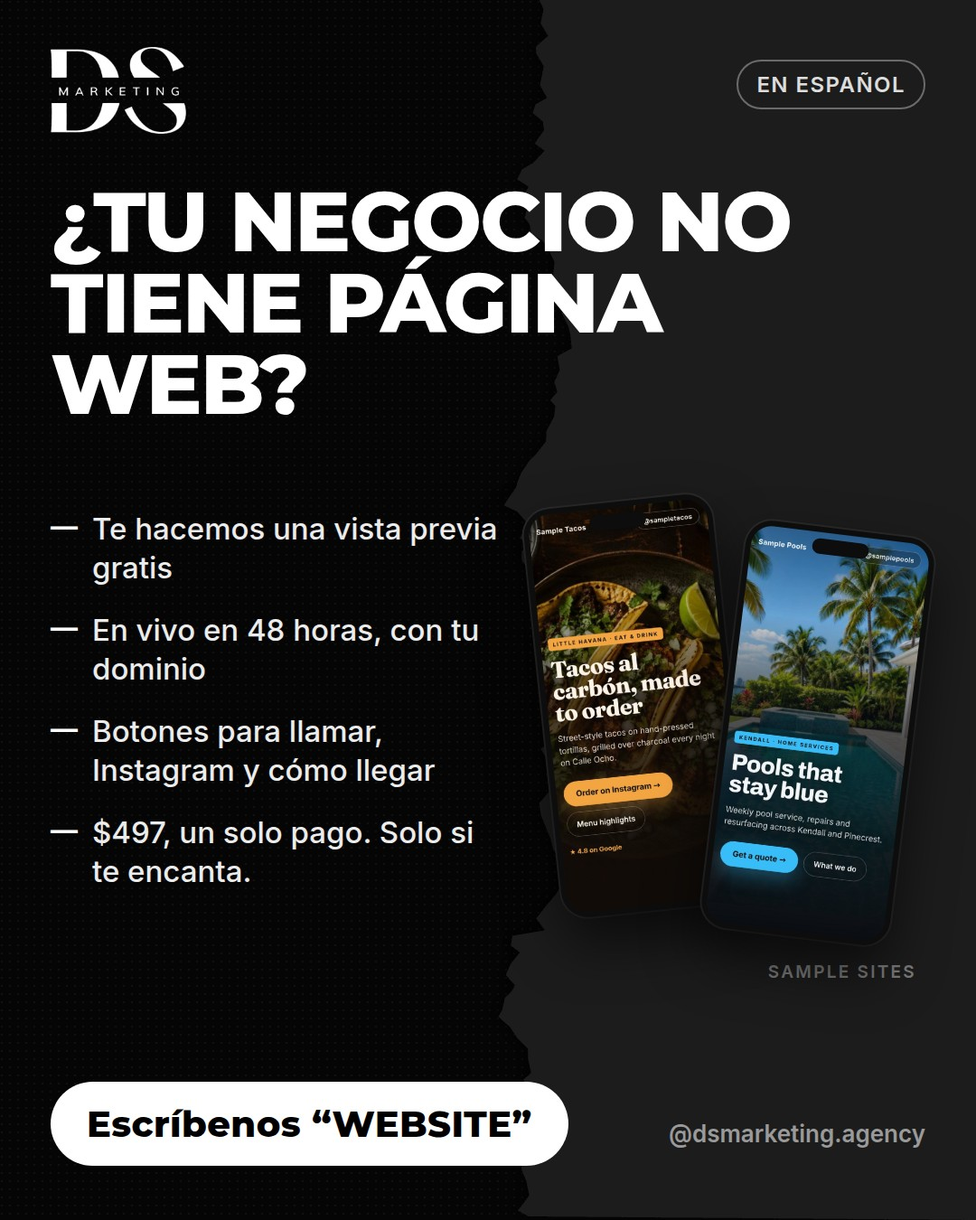
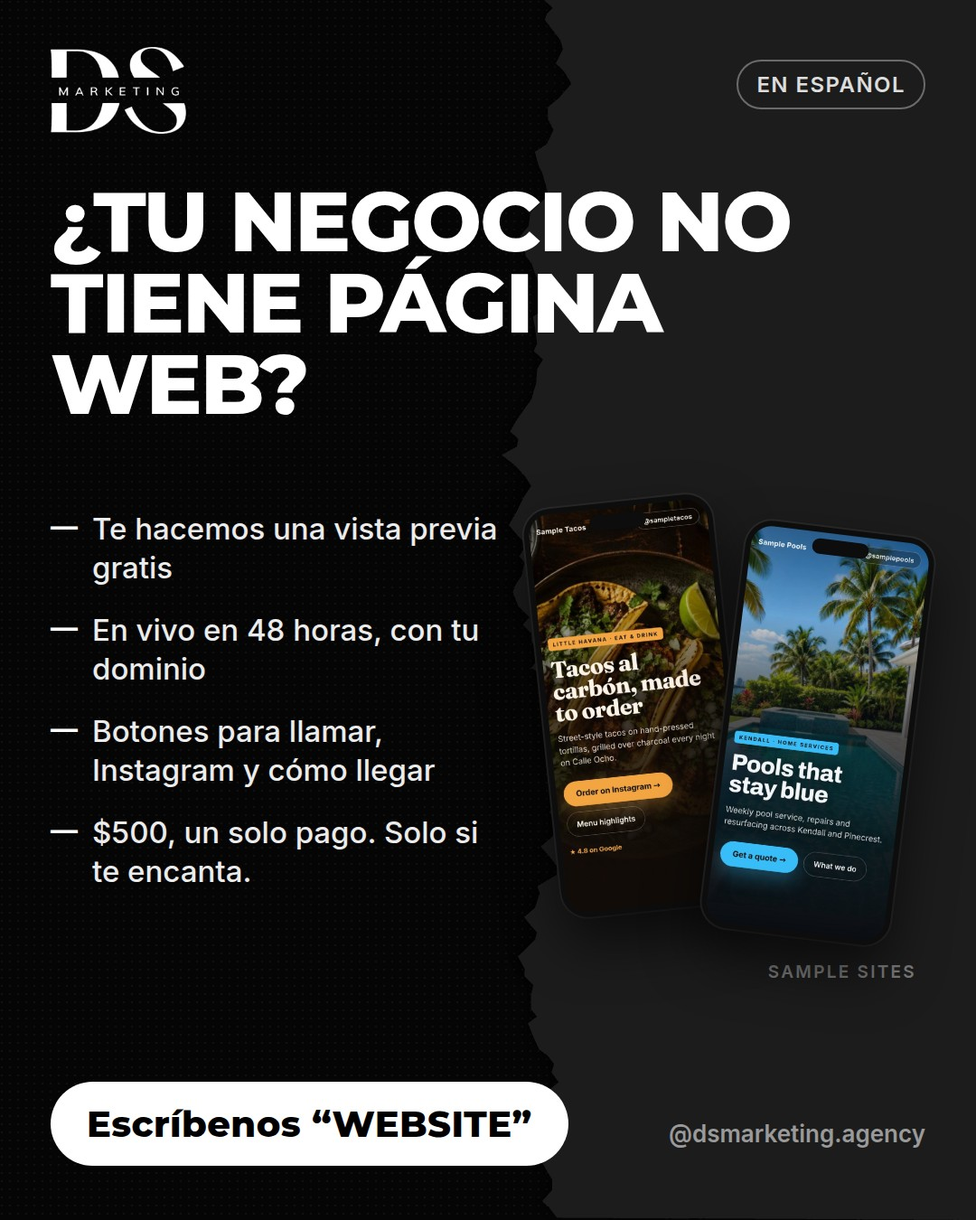
DS prices: Quick Start $500 · Growth $1,000 · Premium $1,500 (Joxel's Stripe products), 48 h kept; queued post images re-rendered
Claude-Session: https://claude.ai/code/session_01C8yjDDS8N94vrod5D4z4qZ

diff --git a/.claude/workflows/ds-daily-leads.js b/.claude/workflows/ds-daily-leads.js
@@ -104,8 +104,8 @@ const WR = { type: 'object', properties: { out: { type: 'array', items: { type: 
   required: ['handle', 'lang', 'exactName', 'heroTitle', 'heroSub', 'services', 'dmHook', 'dm', 'emailSubject', 'emailBody'] } } }, required: ['out'] }
 const toWrite = [...dm, ...mail]
 const wb = []; for (let i = 0; i < toWrite.length; i += 10) wb.push(toWrite.slice(i, i + 10))
-const written = await parallel(wb.map((b, i) => () => agent(`Write website-preview copy and outreach for each business, for DS Marketing (Miami): a $497 website live in 48 hours on their own domain; a free preview is built first; they pay only if they love it. Use ONLY facts in the name and bio below — no invented dishes, prices, years, awards, reviews. Spanish when the bio is mostly Spanish, else English. Copy speaks AS the business (we / our / you).
-Per business: exactName (as they write it), heroTitle (3–7 words, their voice), heroSub (one sentence, real facts only), services (3–5 from the bio / trade, true but may be generic), dmHook (one real detail from their bio to open with), dm (≤ 65 words: hook, "I made you a free website preview", the link, "live on your own domain in 48 h for $497 — want it?"), emailSubject (≤ 7 words), emailBody (≤ 110 words, same idea + link, signed "Joxel · DS Marketing", last line "Reply STOP and we won't email you again." — the sender adds the mailing address).
+const written = await parallel(wb.map((b, i) => () => agent(`Write website-preview copy and outreach for each business, for DS Marketing (Miami): a $500 website live in 48 hours on their own domain; a free preview is built first; they pay only if they love it. Use ONLY facts in the name and bio below — no invented dishes, prices, years, awards, reviews. Spanish when the bio is mostly Spanish, else English. Copy speaks AS the business (we / our / you).
+Per business: exactName (as they write it), heroTitle (3–7 words, their voice), heroSub (one sentence, real facts only), services (3–5 from the bio / trade, true but may be generic), dmHook (one real detail from their bio to open with), dm (≤ 65 words: hook, "I made you a free website preview", the link, "live on your own domain in 48 h for $500 — want it?"), emailSubject (≤ 7 words), emailBody (≤ 110 words, same idea + link, signed "Joxel · DS Marketing", last line "Reply STOP and we won't email you again." — the sender adds the mailing address).
 Preview link = https://joxelds.github.io/Claude/p/<slug>/ with <slug> given below.
 ${b.map(q => `- @${q.handle} (slug ${slugOf(q.handle)}) · ${q.ig.name || ''} · ${q.niche} · ${q.area || ''} · ${q.ig.followers} followers · bio: ${(q.ig.bio || '').replace(/\s+/g, ' ').slice(0, 300)} · tagged by @${q.seed}: "${q.context}"`).join('\n')}`, { label: `write:${i + 1}`, phase: 'Write', schema: WR })))
 const wmap = new Map(written.filter(Boolean).flatMap(w => w.out || []).map(w => [String(w.handle).replace(/^@/, '').toLowerCase(), w]))

diff --git a/.claude/workflows/ds-inspiration.js b/.claude/workflows/ds-inspiration.js
@@ -35,7 +35,7 @@ const tries = await parallel(proposals.map(p => () => agent(`${RULES}\n\nBuild e
 
 phase('Judge')
 const VERD = { type: 'object', properties: { verdicts: { type: 'array', items: { type: 'object', properties: { id: { type: 'string' }, better: { type: 'boolean' }, score: { type: 'number' }, why: { type: 'string' } }, required: ['id', 'better', 'score', 'why'] } } }, required: ['verdicts'] }
-const JUDGES = [['designer', 'a world-class visual designer'], ['owner', 'the three business owners (food truck, barbershop, boxing gym) deciding whether to pay $497'], ['engineer', 'a strict front-end / accessibility / honesty auditor who reads the generated HTML']]
+const JUDGES = [['designer', 'a world-class visual designer'], ['owner', 'the three business owners (food truck, barbershop, boxing gym) deciding whether to pay $500'], ['engineer', 'a strict front-end / accessibility / honesty auditor who reads the generated HTML']]
 const votes = await parallel(JUDGES.map(([k, who]) => () => agent(`${RULES}\n\nYou are judge "${k}" (${who}). Compare the BASE pages (${V2}/insp/base-<slug>-m.png, -d1.png; HTML in public/p/_lab/base/) with each experiment (${proposals.map(p => p.id).join(', ')}: ${V2}/insp/<id>-<slug>-m.png / -d1.png; HTML public/p/_lab/<id>/). Make sheets with sheet.py and LOOK. For each experiment: is it clearly better than base (not just different)? Score −5 (worse) … +5 (much better). Any honesty or rule break = better:false.`, { label: `judge:${k}`, phase: 'Judge', schema: VERD })))
 const winners = proposals.filter(p => { const vs = votes.filter(Boolean).map(v => v.verdicts.find(x => x.id === p.id)).filter(Boolean); return vs.filter(v => v.better).length >= 2 && vs.reduce((s, v) => s + v.score, 0) > 3 })
 log(`winners: ${winners.map(w => w.id + ' ' + w.title).join(' · ') || 'none this week'}`)

diff --git a/docs/sales/ds-websites.md b/docs/sales/ds-websites.md
@@ -1,19 +1,19 @@
 # DS Marketing — websites for Miami small businesses
 
-Goal: sell websites through @dsmarketing.agency. First target: $1,000 = two Starters ($497) or one Pro ($997).
+Goal: sell websites through @dsmarketing.agency. First target: $1,000 = two Quick Starts ($500) or one Growth Site ($1,000).
 
 ## The offer
 
-| | Starter | Pro | Care plan |
-|---|---|---|---|
-| Price | **$497** one time | **$997** one time | **$49/mo** |
-| Live in | 48 hours after we get their info | 5 days | ongoing |
-| What | One-page mobile-first site · their own domain connected · Call / Instagram / Directions buttons · Google-ready basics (titles, map, fast load) · 1 round of changes | Up to 5 pages · online booking or ordering (their Square / Vagaro / Booksy / Toast / DoorDash link) · menu or services with prices · gallery from their photos · Google Business Profile setup · 2 rounds of changes | Hosting, updates, small text / photo / price edits each month |
-| Payment | 100% up front | 50% to start, 50% at launch | monthly |
+| | Quick Start Website | Growth Site | Premium Site | Care plan |
+|---|---|---|---|---|
+| Price | **$500** one time | **$1,000** one time | **$1,500** one time | **$49/mo** |
+| Live in | 48 hours after we get their info | 5 days | agreed per project | ongoing |
+| What | One-page mobile-first site · their own domain connected · Call / Instagram / Directions buttons · Google-ready basics (titles, map, fast load) · 1 round of changes | Everything in Quick Start + booking, ordering or lead capture wired in (their Square / Vagaro / Booksy / Toast / DoorDash link or a lead form) · up to 5 pages · menu or services with prices · gallery · Google Business Profile setup · 2 rounds of changes | Full build with automations (lead / order notifications, email flows) and ongoing updates | Hosting, updates, small text / photo / price edits each month |
+| Payment | 100% up front (Stripe link) | 100% up front (Stripe link) | 100% up front (Stripe link) | monthly |
 
 - Domain: about $12–15 a year, registered **in the client's name** (Porkbun, Namecheap or Cloudflare). We set it up on a screen share or with their login. They own it.
 - Hosting: free static hosting (Netlify or Cloudflare Pages) under DS's account; the Care plan pays for our time, not the hosting.
-- Payment link: from dsmarketing.company (Joxel's site). Never take card numbers in a DM.
+- Payment: Stripe Payment Links on Joxel's account (joxelbusinessllc) — one link per product (Quick Start $500 · Growth $1,000 · Premium $1,500); add `?client_reference_id=<slug>` so the payment matches the preview. The 2026-10-09 link https://buy.stripe.com/4gM3cv5PI9XyfFh3DC1oI00 bundles all three ($3,000) — never send it. Never take card numbers in a DM.
 
 ## How a deal happens
 
@@ -27,12 +27,12 @@ Goal: sell websites through @dsmarketing.agency. First target: $1,000 = two Star
 ## DM 1 (with the preview)
 
 > Hey {first name or business}! I'm Joxel from DS Marketing in Miami. I saw you don't have a website yet, so I made you a free preview: {PREVIEW_URL}
-> It's yours if you want it: live on your own domain in 48 hours for $497. Want me to put your real photos and menu on it?
+> It's yours if you want it: live on your own domain in 48 hours for $500. Want me to put your real photos and menu on it?
 
 Spanish:
 
 > ¡Hola {nombre}! Soy Joxel de DS Marketing en Miami. Vi que todavía no tienen página web y les hice una vista previa gratis: {PREVIEW_URL}
-> Si les gusta, la ponemos en vivo con su propio dominio en 48 horas por $497. ¿Quieren que le ponga sus fotos y su menú?
+> Si les gusta, la ponemos en vivo con su propio dominio en 48 horas por $500. ¿Quieren que le ponga sus fotos y su menú?
 
 Rules: send between 10 am and 7 pm, max 25 cold DMs a day from a fresh-ish account (IG limits), never copy-paste the same text 25 times in a row — change the first line per business.
 
@@ -46,7 +46,7 @@ Rules: send between 10 am and 7 pm, max 25 cold DMs a day from a fresh-ish accou
 
 | They say | You answer |
 |---|---|
-| "How much?" | "$497 one time, live in 48 hours on your own domain. Domain is about $15 a year and it's in your name. No monthly fee unless you want us to keep it updated ($49/mo)." |
+| "How much?" | "$500 one time, live in 48 hours on your own domain. Domain is about $15 a year and it's in your name. No monthly fee unless you want us to keep it updated ($49/mo)." |
 | "I already have Instagram" | "Instagram is great for people who already follow you. Google sends people who are searching right now, 'tacos near me', and they want a site with your hours, menu and a button to call. This is that page." |
 | "Too expensive" | "Totally fair. One or two new customers from Google usually pays for it. If timing is the issue, I can split it in two payments of $250." (Keep the price; offer the split, not a discount.) |
 | "Send me more info" | Send story 2 (`docs/social/ds/website-offer-story2.png`) + "The fastest way to see it is the preview: {PREVIEW_URL}. Want it live?" |
@@ -67,7 +67,7 @@ Rules: send between 10 am and 7 pm, max 25 cold DMs a day from a fresh-ish accou
 
 ## Upsells (at delivery, when they're happiest)
 
-1. **Pro $997** (credit the $497 if they upgrade within 14 days → $500 more).
+1. **Growth $1,000** (credit the $500 if they upgrade within 14 days → $500 more).
 2. **Care $49/mo**: "I'll keep the menu and hours updated whenever you text me."
 3. **Google Business Profile tune-up $150** (photos, categories, hours, link to the site).
 4. Later: Reels / ads packages from DS.
@@ -89,7 +89,7 @@ Post caption:
 
 > No website? We build it in 48 hours. 🖥📱
 > A real site on your own domain: mobile-first, fast, with buttons to call you, see your Instagram and get directions.
-> 💸 $497, one time. We make you a free preview first, so you only pay if you love it.
+> 💸 $500, one time. We make you a free preview first, so you only pay if you love it.
 > DM "WEBSITE" and we'll send yours.
 > ·
 > ¿No tienes página web? Te la hacemos en 48 horas. Vista previa gratis primero. Escríbenos "WEBSITE".

diff --git a/docs/sales/autopilot.md b/docs/sales/autopilot.md
@@ -11,7 +11,7 @@ Goal (Joxel, 2026-10-08): "automate all of the process, I just want to receive p
 | Inspiration agent | Workflow `.claude/workflows/ds-inspiration.js` (named `ds-inspiration`) → `tools/ds/inspiration/library.json` + experiments judged A/B, winners merged into `site.mjs` |
 | Pipeline page | https://claude.ai/artifact/UPBKzoPBPrA2rgMngANBjp — db `prospects`, `messages` (dm / email drafts, `priority`, status draft → sent / approved → sent / skipped), `settings/main {mailingAddress, emailReady, dmCap}` |
 | Posts | DS Post Queue https://claude.ai/artifact/8Xa7QSmRvWiF87DgRGUXhD + `docs/social/ds/post-queue.md`; content insights `docs/social/ds/content-insights.md` |
-| Payments | Stripe (Joxel's account, his bank). Payment Links: Website $497, Website Pro $997, Care $49/mo; each lead's link = `<link>?client_reference_id=<slug>`; custom field "Domain you'd like (optional)" |
+| Payments | Stripe (Joxel's account, his bank). Payment Links: Quick Start Website $500, Growth Site $1,000, Care $49/mo; each lead's link = `<link>?client_reference_id=<slug>`; custom field "Domain you'd like (optional)" |
 | Domains + hosting | Porkbun: register `.com` (≤ $15) + Secure Static Hosting `PIXIESECURESTATICY2` ($30/yr) or `…M2` ($3/mo), deploy = base64 files ≤ 10 MB per call |
 | Emails | Make Gmail connection (when Joxel adds it) → scenario "DS - send email" (to build) with the mailing-address footer from pipeline `settings/main.mailingAddress` |
 | Setup Joxel does | `docs/sales/autopilot-setup.md` |
@@ -23,7 +23,7 @@ Hard limits learned: WebSearch is capped at 200 calls per turn for ALL agents to
 2. **Payments**: list Stripe checkout sessions completed since `settings/main.lastPaymentCheck` on the pipeline page. For each new one, run **Delivery** below. Never deliver twice: the prospect's `stage` must not already be `paid`/`live`.
 3. **Leads**: `Workflow({name: "ds-daily-leads", args: {date, known: <every handle in pipeline prospects + lead-seeds>, seeds: <lead-seeds.json>, maxLookups: <ops budget ÷ 3>, dmPerDay: 25, findSeeds: <Monday>, out: <scratch>/leads}})`. Save the result to `<scratch>/ds/leads/<date>.json`. Update `docs/sales/lead-seeds.json`: `uses += 1` on the used seeds, append `newSeeds`, drop a seed after 3 dead runs.
 4. **Photos** for the day's DM leads: brand pull → sandbox `igimg.py` (MODE=pick, the 3 best IMAGE posts by likes, or video frames) → `public/p/_img/<slug>-1..3.jpg` + logo. A lead with no usable photos gets the niche samples (labelled "Sample photos").
-5. **Build** the previews: lead JSON (copy fields + verified bio facts only) → `node tools/ds/site.mjs <leads.json> --mode preview --claim-url "<Stripe $497 link>?client_reference_id={slug}"` (until Stripe exists: the default Instagram DM link). Screenshot each one (`shot.mjs`): 0 sideways scroll, 0 broken images, 0 external requests. Commit `public/p` and push to main. Check that each URL returns 200 (Pages takes ~1 min).
+5. **Build** the previews: lead JSON (copy fields + verified bio facts only) → `node tools/ds/site.mjs <leads.json> --mode preview --claim-url "<Stripe $500 link>?client_reference_id={slug}"` (until Stripe exists: the default Instagram DM link). Screenshot each one (`shot.mjs`): 0 sideways scroll, 0 broken images, 0 external requests. Commit `public/p` and push to main. Check that each URL returns 200 (Pages takes ~1 min).
 6. **Pipeline**: `ArtifactData batch` → `prospects/<slug>` (`stage: "new"`, `source: "ig-harvest via @seed"`, `addedAt`, followers, area, contact) and `messages/dm1-<slug>` (`channel: "dm"`, `priority` = rank, `status: "draft"`, body = the DM with the preview link), plus `messages/em1-<slug>` for leads with a public email (`channel: "email"`, subject, body). Never write a message whose preview URL is not live yet.
 7. **Follow-ups**: a DM marked sent ≥ 3 days ago with no reply → `dm2-<slug>` draft (short, one new detail, same link). At ≥ 7 days → `dm3` (last, friendly close). Emails the same, once Gmail is connected. Approved emails: send up to 40/day through "DS - send email", oldest first.
 8. One line to Joxel: "N new leads (M DMs ready) · K emails sent · P payments · Q sites live".
@@ -40,7 +40,7 @@ Hard limits learned: WebSearch is capped at 200 calls per turn for ALL agents to
 ## Session handoff (when Joxel opens a new session after connecting Stripe / Porkbun)
 1. Read CLAUDE.md, this file, `docs/social/ds/post-queue.md`, `docs/training/pov-studio.md`.
 2. Re-point every routine to the new session: `list_triggers` → for each DS / POV routine, `create_trigger` with the same name, cron and prompt (it binds to the new session by default), then `delete_trigger` the old one. Write the new trigger ids into the pages that fire them: DS Post Queue `settings/main.triggerId`, POV Studio `settings/main.triggerId`.
-3. Stripe: create Products + Prices + Payment Links (Website $497 one-time, Website Pro $997 one-time, Care $49/month recurring). On each link: collect phone, a custom text field "Domain you'd like (optional)", and the success message "Thank you! Your site goes live within 48 hours. We'll text you the link." Save the link URLs in the pipeline `settings/main` (`payLinks`) and in this file.
+3. Stripe: create Products + Prices + Payment Links (Quick Start Website $500 one-time, Growth Site $1,000 one-time, Care $49/month recurring). On each link: collect phone, a custom text field "Domain you'd like (optional)", and the success message "Thank you! Your site goes live within 48 hours. We'll text you the link." Save the link URLs in the pipeline `settings/main` (`payLinks`) and in this file.
 4. Porkbun: `ping` (confirm the account), `account/apiSettings` (the limit), and a `dryRun` registration of a test name. Nothing is bought until a client pays.
 5. Run the first daily run.
 

diff --git a/docs/social/ds/content-insights.md b/docs/social/ds/content-insights.md
@@ -240,9 +240,9 @@ Fri Oct 9 – Thu Oct 22, 2026. Slots 08:52 / 12:52 / 18:52 ET (the post queue's
 - **Carousels.** When the poster gets a carousel module, render tips, checklists and process posts as 3–5 slides: a cover, one point per slide, and a CTA slide. Until then, post single images. This is the biggest format gap in the data (carousels 1.16, single images 0.73).
 - **Offers.** At most one hard offer in any three posts. This plan has 3 offer posts plus the Reel end cards.
 - **Offer facts** come only from `post-queue.md`:
-  - $497, live in 48 h on their own domain.
+  - $500, live in 48 h on their own domain.
   - A free preview from their Instagram first.
-  - $997 Pro.
+  - $1,000 Growth.
   - $49/mo care.
   - DM "WEBSITE".
   - No results, client names, reviews, ratings or statistics.
@@ -259,11 +259,11 @@ Fri Oct 9 – Thu Oct 22, 2026. Slots 08:52 / 12:52 / 18:52 ET (the post queue's
 |---|---|---|---|
 | Fri 9 | checklist · checklist — What a one-page site needs (hours, menu or services with prices, address + map, call button, Instagram, order/booking link) · B | compare · vs — Link in bio vs. your website: the basics · C | **Reel A1** Instagram → website, food (Sample build 1/4) · A |
 | Sat 10 | tip · phones-food — Put your menu in text, not only in a photo · B | spanish · phones-beauty — ¿Te encuentran rápido? Horario, precios, dirección y un botón para llamar · E | **Reel D1** Link in bio vs. a real page, food · A |
-| Sun 11 | myth · none — "Instagram is enough": it serves followers; a page with hours, menu and a map serves people searching · D | process · steps — How your website happens: 1 · we look at your Instagram, 2 · free preview, 3 · you say yes, 4 · live on your domain in 48 h · C | offer · phones-fitness — No website? Live in 48 hours, $497, free preview first · A |
+| Sun 11 | myth · none — "Instagram is enough": it serves followers; a page with hours, menu and a map serves people searching · D | process · steps — How your website happens: 1 · we look at your Instagram, 2 · free preview, 3 · you say yes, 4 · live on your domain in 48 h · C | offer · phones-fitness — No website? Live in 48 hours, $500, free preview first · A |
 | Mon 12 | tip · phones-beauty — Make "Book" the biggest button on the page · B | faq · none — Do I pay before I see it? No: a free preview from your Instagram first · D | **Reel A2** beauty (2/4) · A |
 | Tue 13 | checklist · checklist — 5 taps to test before you share your site (call, directions, hours, booking link, Instagram link) · B | spanish · phones-food — Tu menú en tu página, no solo en una foto · E | **Reel B** Four businesses, one 48-hour build · A |
 | Wed 14 | tip · phones-home — Name the neighborhoods you serve · B | compare · vs — "Are you open?": link in bio vs. website · C | **Reel C** The 48 hours, on a clock · A |
-| Thu 15 | myth · none — "A website takes months": a clear one-page site is a small job · D | spanish · phones-fitness — Mito: con Instagram basta · C | offer · phones-home — Free preview from your Instagram, live in 48 h for $497 · A |
+| Thu 15 | myth · none — "A website takes months": a clear one-page site is a small job · D | spanish · phones-fitness — Mito: con Instagram basta · C | offer · phones-home — Free preview from your Instagram, live in 48 h for $500 · A |
 | Fri 16 | tip · phones-fitness — One main button at the top: book, order or call · B | process · steps — What we need from you: logo, 6–10 photos, hours + address, menu or services + prices, the domain you want, booking/order link · C | **Reel A3** fitness (3/4) · A |
 | Sat 17 | checklist · checklist — Halloween week: the same hours on Google, Instagram and your site, special hours posted · C | faq · none — What's the $49/mo? The optional care plan · D | **Reel A1-ES** De Instagram a página web (comida) · E |
 | Sun 18 | spanish · checklist — Lo que tu página necesita · B (Guárdalo) | compare · vs — Booking: link in bio vs. website · C | **Reel D2** Link in bio vs. a real page, beauty · A |
@@ -374,7 +374,7 @@ Four concepts in the style of software product demos: screen recordings with kin
 | 8–11 s | Scroll of the sample site, top to map | Menu · hours · map |
 | 11–13 s | Tap ripples on Call, then Directions | One tap to call. One tap to get there. |
 | 13–16 s | The address bar types `yourname.com`, a padlock appears, a "Live" chip | Live on your own domain in 48 h |
-| 16–18 s | Price card | $497 one time · free preview first |
+| 16–18 s | Price card | $500 one time · free preview first |
 | 18–20 s | End card with the DS logo | DM "WEBSITE" · Sample build 1/4 |
 
 ### B — "Four businesses, one 48-hour build" (transformation montage; EN + ES)
@@ -407,7 +407,7 @@ Four concepts in the style of software product demos: screen recordings with kin
 | 9–13 s | Menu / services section fills in with prices | Menu or services, with prices |
 | 13–17 s | The same page on a phone and a laptop | Built for the phone first |
 | 17–21 s | The address bar types `yourname.com`; the timer hits 48:00 | Live on your own domain |
-| 21–25 s | End card | $497 one time · free preview first · DM "WEBSITE" |
+| 21–25 s | End card | $500 one time · free preview first · DM "WEBSITE" |
 
 ### D — "Link in bio vs. a real page" (A/B screen recording; food + beauty)
 

diff --git a/docs/sales/autopilot-setup.md b/docs/sales/autopilot-setup.md
@@ -9,14 +9,14 @@ Everything below is a one-time setup that only you can do, because each one chec
 3. Settings → Business → **Public details**: name "DS Marketing", statement descriptor `DSMARKETING`, support email/phone.
 4. Settings → Payouts: **daily**.
 5. Connect it to Claude: open https://claude.ai/customize/connectors → **Stripe** → Connect → approve.
-   (Claude then creates the three payment links — Website $497, Website Pro $997, Care $49/month — and checks for new payments by itself.)
+   (Claude then creates the three payment links — Quick Start Website $500, Growth Site $1,000, Care $49/month — and checks for new payments by itself.)
 
 ## 2. Porkbun = domains + hosting (we buy each client's domain)
 1. **porkbun.com/account/create**. Verify your email, then your phone (needed to buy domains).
 2. **Account → Credit**: save a card and add **$50**. Turn on **auto top-up** ($50 whenever the balance drops under $15).
 3. **porkbun.com/account/api**: set the **monthly API limit** to **$300**. That covers about 20 domains + hosting a month. Claude can never spend more than this, and you get an email for every charge.
 4. Connect it to Claude: https://claude.ai/customize/connectors → **Add custom connector** → URL `https://mcp.porkbun.com/mcp` → sign in → choose **Full access** and tick **"allow API access for all domains"**.
-   Each client costs us about **$11/year (.com) + $3/month hosting**. The first year is inside the $497. After that it's covered by the $49/month care plan.
+   Each client costs us about **$11/year (.com) + $3/month hosting**. The first year is inside the $500. After that it's covered by the $49/month care plan.
 
 ## 3. Make = more operations for 200 leads a day
 Make → Organization → **Subscription** → raise operations to **40,000 / month** (Core 40k, or Pro). The current 10,000 covers about 50–80 lead checks a day.

diff --git a/.claude/skills/ds-instagram-agent/SKILL.md b/.claude/skills/ds-instagram-agent/SKILL.md
@@ -5,7 +5,7 @@ description: DS Marketing's Instagram sales agent for websites. Use when Joxel a
 
 # DS Instagram agent — websites
 
-You run DS Marketing's website sales on Instagram for Joxel. The offer, prices and every scripted answer live in `docs/sales/ds-websites.md`: read it first, every time. Starter $497 live in 48 h · Pro $997 in 5 days · Care $49/mo · free preview first.
+You run DS Marketing's website sales on Instagram for Joxel. The offer, prices and every scripted answer live in `docs/sales/ds-websites.md`: read it first, every time. Quick Start $500 live in 48 h · Growth $1,000 in 5 days · Care $49/mo · free preview first.
 
 ## Hard rules
 
@@ -30,5 +30,5 @@ You run DS Marketing's website sales on Instagram for Joxel. The offer, prices a
 ## Delivering a sold site
 
 - Starter: the preview becomes the real site. Swap in their photos, logo, hours, address, prices and phone, remove the preview ribbon / footer note / `noindex`, and host it on Netlify or Cloudflare Pages (or Hostinger if connected) on the domain registered in the client's name.
-- Pro: the `10k-websites` skill in this repo builds cinematic multi-section sites; use it for $997 clients who want the premium look.
-- After launch: offer the Care plan and the Pro upgrade (credit the $497 within 14 days).
+- Pro: the `10k-websites` skill in this repo builds cinematic multi-section sites; use it for $1,000 clients who want the premium look.
+- After launch: offer the Care plan and the Pro upgrade (credit the $500 within 14 days).

diff --git a/tools/ds/reels/README.md b/tools/ds/reels/README.md
@@ -144,7 +144,7 @@ mix is loudness-normalised in two passes to **−14 LUFS integrated, ≤ −1.5 
 
 ## Limits for scriptwriters
 
-- Offer facts you may use: free website preview first · $497 = live on your own domain in 48 hours · $997 = Website Pro ·
+- Offer facts you may use: free website preview first · $500 = live on your own domain in 48 hours · $1,000 = Growth Site ·
   $49/month care plan · "DM us WEBSITE". No other numbers, prices, claims or guarantees. A `stat` needs a real `source`.
 - No fake reviews, testimonials, ratings or customers; `quote` is never an invented person. Demo screens are the three
   FICTIONAL businesses below and must keep their DEMO tag; never present them as clients.
@@ -206,7 +206,7 @@ Fonts: Montserrat ExtraBold and Inter 400–800 (from `tools/video/fonts/`, OFL)
     { "type": "list", "beats": 10, "head": "Your menu page needs",
       "items": ["Dishes as text", "A price on each", "A pickup button"] },
     { "type": "text", "beats": 7, "kicker": "The offer", "head": "Free preview *first*",
-      "sub": "$497 · live on your own domain in 48 hours" },
+      "sub": "$500 · live on your own domain in 48 hours" },
     { "type": "end", "beats": 6, "tr": "wipe", "line": "Want a free preview?", "cta": "DM us “WEBSITE”" }
   ]
 }

diff --git a/docs/social/ds/post-queue.md b/docs/social/ds/post-queue.md
@@ -42,9 +42,10 @@ Joxel (2026-10-08): "I want you to post 3 times a day" → chose **post on its o
    - Topics and format come from `docs/social/ds/content-insights.md` (the research agent keeps it current). Rotate kinds: tip, myth, process, checklist, compare, spanish, faq, offer, "what a preview looks like". Have at most one hard offer in every 3 posts. Never reuse a headline from the last 30 posts.
    - Write them as `posts.json` (format at the top of `tools/ds/posts.mjs`). Each post carries `claims[]`: every factual statement in the image and the caption.
    - The only offer facts allowed:
-     - $497 website live in 48 h on their own domain.
+     - $500 website live in 48 h on their own domain.
      - A free preview made from their Instagram before they pay.
-     - $997 Pro.
+     - $1,000 Growth Site (booking, ordering or lead capture).
+     - $1,500 Premium Site (automations, email flows, ongoing updates).
      - $49/mo care.
      - DM "WEBSITE".
    - Never invent results, client names, reviews, stats, percentages or "most people" numbers. Advice must be general and true.
